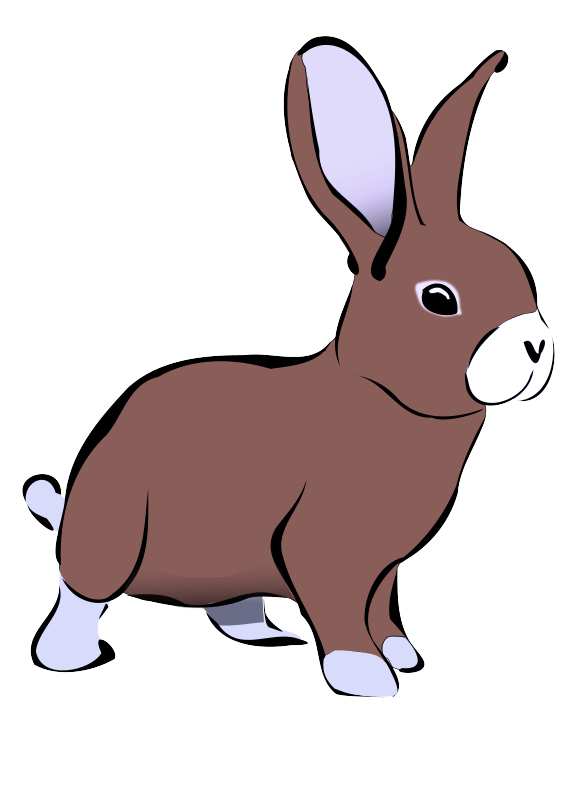
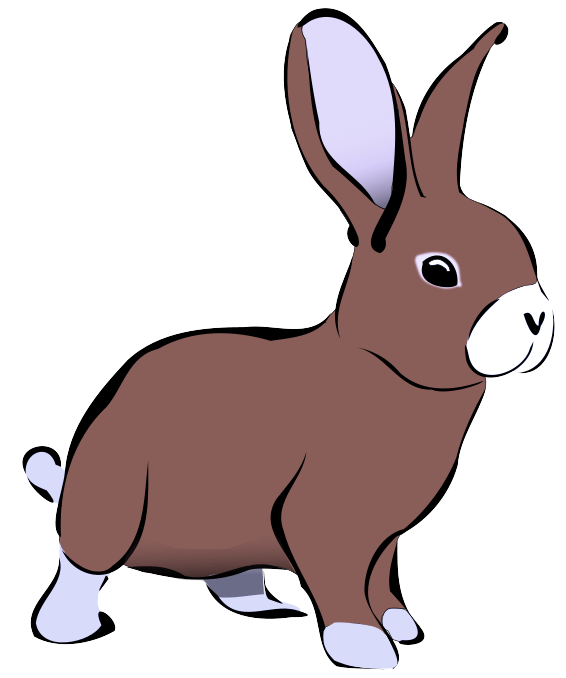
стили
- стили для игры (инфо о других, охота, инвентарь)
- стили для переписки
- таблица игроков теперь делает курсор как на ссылку и имеет эффекты при наведении
- изменён текст-заглушка для описания другого игрока
- встроенные стили в скрипте получения чата заменены на классы

- добавлен предмет  - крылья бабочки
- подрезана картинка кролика (была слишком высокой)

diff --git a/pm.html b/pm.html
@@ -2,25 +2,120 @@
 <html>
 
 <head>
-  <title>Личные сообщения</title>
-  <link rel="stylesheet" href="css/style.css">
-  <meta charset="utf-8">
+    <title>Личные сообщения</title>
+    <link rel="stylesheet" href="css/style.css">
+    <meta charset="utf-8">
 
-  <script src="https://ajax.googleapis.com/ajax/libs/jquery/3.6.4/jquery.min.js"></script>
+    <script src="https://ajax.googleapis.com/ajax/libs/jquery/3.6.4/jquery.min.js"></script>
+
+    <style>
+        .transblock {
+            height: 800px;
+            flex-flow: row wrap;
+        }
+        .row {
+            display: flex;
+            flex-flow: row nowrap;
+            flex: 1 0;
+            justify-content: space-between;
+            padding-bottom: 15px;
+            min-width: 1200px;
+        }
+        #userList {
+            height: 700px;
+            width: 250px;
+            padding: 10px;
+            overflow-y: auto;
+            display: flex;
+            flex-flow: column nowrap;
+            justify-content: start;
+            gap: 1px;
+            background-color: rgba(133, 149, 148, 0.5);
+        }
+        .user-item {
+            padding: 10px;
+            background-color: #3A4646;
+            color: white;
+        }
+        .user-item:hover {
+            background-color: #859594;;
+            color: white;
+        }
+        #chat {
+            width: 1550px;
+            height: 720px;
+            display: flex;
+            flex-direction: column;
+            align-items: flex-start;
+            overflow-y: auto;
+            background-color: rgba(133, 149, 148, 0.5);
+        }
+        .msg {
+            background-color: #EDEFF1;
+            border-radius: 10px;
+            margin: 10px;
+            padding: 0 10px;
+            font-family: Ruda;
+            max-width: 50%;
+        }
+        .msg > p {
+            margin: 10px 0;
+        }
+        .msg.right {
+            align-self: flex-end;
+            border-bottom-right-radius: 0px;
+        }
+        .msg.right::before, .msg.left::before {
+            display: block;
+            content: '';
+            position: relative;
+            width: 0px;
+            border-top: 15px solid #EDEFF1;
+        }
+        .msg.right::before {
+            left: calc(100% - 10px);
+            top: 100%;
+            border-left: 20px solid transparent;
+        }
+        .msg.left {
+            align-self: flex-start;
+            border-bottom-left-radius: 0px;
+        }
+        .msg.left::before {
+            left: -10px;
+            top: 100%;
+            border-right: 20px solid transparent;
+        }
+        .message-time {
+            font-family: "Jura";
+            color: #859594;
+        }
+        #messageInput {
+            justify-content: flex-end;
+        }
+        #messageText {
+            height: 60px;
+            width: 1400px;
+            resize: none;
+        }
+
+    </style>
 </head>
 
 <body class="wrapper">
-  <div>
-    <h3 style="display:none"> Главная </h3>
-    <div class="transblock">
-      <div id="userList"></div>
-      <div id="chat" style = "width: 100%; display: flex; flex-direction: column; align-items: flex-start;"></div>
-      <div id="messageInput">
-        <textarea id="messageText" maxlength="1000" placeholder="Введите текст сообщения..."></textarea>
-        <button id="sendMessageBtn">Отправить</button>
-      </div>
+    <div>
+        <h3 style="display:none"> Главная </h3>
+        <div class="transblock">
+            <div class="row">
+                <div id="userList"></div>
+                <div id="chat"></div>
+            </div>
+            <div id="messageInput" class="row">
+                <textarea id="messageText" maxlength="1000" placeholder="Введите текст сообщения..."></textarea>
+                <button id="sendMessageBtn" class="buttonsimple">Отправить</button>
+            </div>
+        </div>
     </div>
-  </div>
 
 </body>
 <script src="js/script.js"></script>

diff --git a/css/game.css b/css/game.css
@@ -15,10 +15,11 @@ td img {
     max-height: 50px;
 }
 
-/* CHAR INFO */
+/******************************************************* CHAR INFO */
 
 .charInfo {
-    height: 780px;
+    height: 797px;
+    min-width: 190px;
     display: flex;
     flex-flow: column wrap;
     justify-content: space-between;
@@ -29,6 +30,7 @@ td img {
     background-color: rgba(255, 255, 255, 0.5);
     border-radius: 5px;
     padding: 10px;
+    padding-top: 5px;
 }
 
 .charInfoBlock h1 {
@@ -58,13 +60,76 @@ td img {
     background-color: orange;
 }
 
-/* GAME */
+/******************************************************* OTHERS INFO */
+
+.othersInfo {
+    height: 797px;
+    width: 250px;
+    display: flex;
+    flex-flow: column wrap;
+    gap: 10px;
+    align-items: center;
+    text-align: center;
+    font-family: "Ruda";
+    padding: 0 10px;
+    background-color: rgba(255, 255, 255, 0.5);
+    border-radius: 5px;
+}
+
+div:has(>#otherPic) {
+    display: flex;
+    justify-content: center;
+    align-items: center;
+    height: 275px;
+    padding: 10px;
+    padding-bottom: 0;
+    background-color: rgba(133, 149, 148, 0.5);
+    border-radius: 5px;
+}
+
+#otherPic {
+    width: 230px;
+}
+
+#otherName {
+    color: #cf755f;
+    line-break: auto;
+    word-break: break-word;
+    font-size: 40px;
+    line-height: normal;
+}
+
+#otherInfo {
+    width: 230px;
+    max-height: 60px;
+    overflow: hidden;
+    padding: 10px;
+    font-size: 13px;
+    background-color: rgba(255, 255, 255, 0.5);
+}
+
+#othersInfoClose {
+    width: 90%;
+    color: white;
+    background-color: #cf755f;
+    border-color: #cf755f;
+}
+
+input {
+    font-size: 15px !important;
+    width: 100px;
+    white-space: normal;
+}
+
+/******************************************************* GAME */
 
 .gametable {
     background-color: white;
-    background-size: cover;
+    background-size: 1150px;
+    background-position: -225px -20px;
     display: inline-table;
     border-spacing: 0;
+    padding: 5px;
 }
 
 .gametable td {
@@ -73,10 +138,10 @@ td img {
     height: 60px;
     text-align: center;
 }
-
+/* 
 .occupied {
     background-color: rgba(255, 255, 255, 0.5);
-}
+} */
 
 .transition {
     color: white;
@@ -85,27 +150,36 @@ td img {
     background-color: blueviolet;
     border-radius: 30px;
     cursor: pointer;
+    word-break: break-word;
 }
 
 td:has(#char) {
     border: 2px solid orange;
+    backdrop-filter: blur(30px) opacity(95%)
 }
 
 #msg, .waitingbench {
     display: inline-block;
 }
 
-h2 {
-    color: #cf755f;
+.viewing {
+    border: 2px dotted orange !important;
+    backdrop-filter: blur(30px) opacity(95%);
 }
 
-/* INVENTORY AND BENCH */
+.hunting {
+    border: 2px dashed orange !important;
+}
+
+
+/******************************************************* INVENTORY AND BENCH */
 
 .waitingBench {
     display: flex;
     justify-content: center;
     align-items: center;
-    min-width: 200px;
+    min-width: 190px;
+    margin-right: 15px;
 }
 
 .inventory {
@@ -121,6 +195,10 @@ h2 {
     width: 60px;
     height: 60px;
     text-align: center;
+}
+
+#msg {
+    color: white;
 }
 
 /*

diff --git a/players.html b/players.html
@@ -49,6 +49,13 @@
         padding: 10px 20px;
     }
 
+    .profiled {
+        cursor: pointer;
+    }
+    .profiled:hover {
+        background-color: #EDEFF1;
+    }
+
     .online, #online+label {
         color: #cf755f;
     }

diff --git a/php/loadChat.php b/php/loadChat.php
@@ -18,9 +18,9 @@ if (isset($_GET['userId'])) {
             $messageText = $message['text'];
             $fromUser = $message['from_user'];
             $time = date('Y-m-d H:i:s', strtotime($message['time']));
-            $alignClass = ($fromUser == $userId) ? 'start' : 'end';
-            if ($message['from_user'] == $message['to_user']) $alignClass = 'end';
-            echo '<div style="align-self: flex-'.$alignClass.'; background-color: #EDEFF1; border-radius: 10px; margin: 10px; padding: 10px; font-family: Ruda; max-width: 30%;">';
+            $class = ($fromUser == $userId) ? 'left' : 'right';
+            if ($message['from_user'] == $message['to_user']) $class = 'left';
+            echo '<div class="msg '.$class.'">';
             echo '<span class="message-time">' . $time . '</span>';
             echo '<p>' . $messageText . '</p>';
             echo '</div>';

diff --git a/php/getprofile.php b/php/getprofile.php
@@ -46,7 +46,7 @@ if ($name != "Здесь будет имя персонажа") {
 
     echo "<div class='row'>";
     echo "<form>";
-    echo "<textarea name='about' placeholder='Расскажите о себе' disabled maxlength='5000'>".$getuserinfo["about"]."</textarea>";
+    echo "<textarea name='about' placeholder='Игрок пока не рассказал о себе...' disabled maxlength='5000'>".$getuserinfo["about"]."</textarea>";
     echo "</form>";
     echo "</div>";
 }
